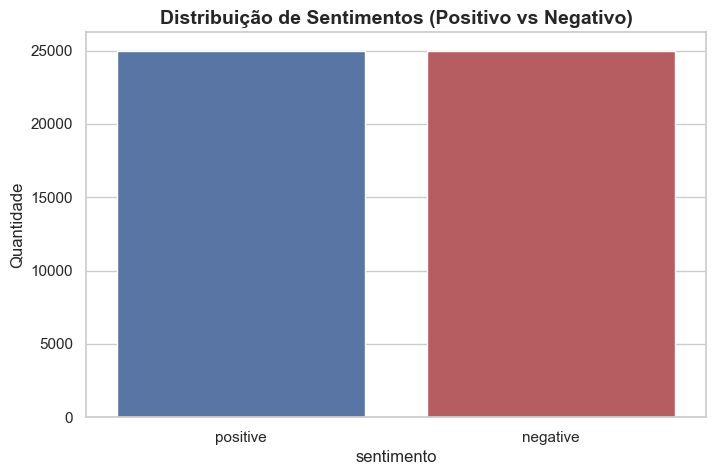
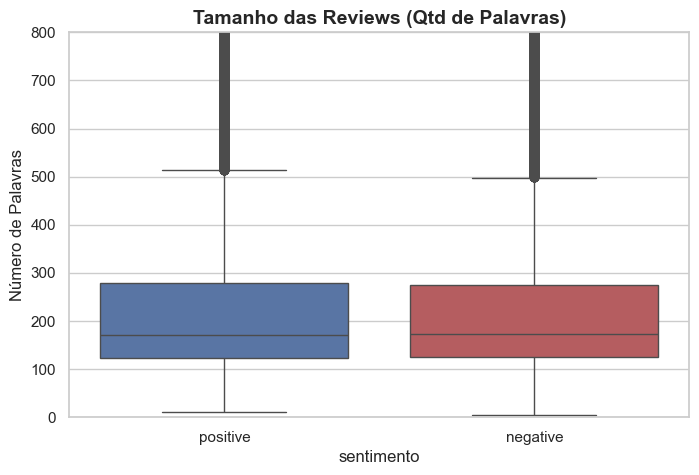
fix: coreção das imagens e adição do link do depoy

diff --git a/README.md b/README.md
@@ -72,7 +72,7 @@ Foi criada uma função responsável por:
 ### 3. Análise Exploratória dos Dados (EDA)
 
 #### Distribuição dos Sentimentos
-O dataset é perfeitamente balanceado, com **25.000 reviews positivas** e **25.000 negativas**.
+O dataset é balanceado, com uma media  **25.000 reviews positivas** e **25.000 negativas**, pois o dataSet tinha 418 registros duplicados.
 
 ![Distribuição de Sentimentos](image/DistribuicaoSentimento.png)
 
@@ -309,7 +309,7 @@ http://localhost:8501
 ## Link do Aplicativo Publicado
 
 ```
-https://SEU-PROJETO.streamlit.app
+https://imdbiaprova-cjh4xzbnizoebvutegmybg.streamlit.app
 ```
 
 ---